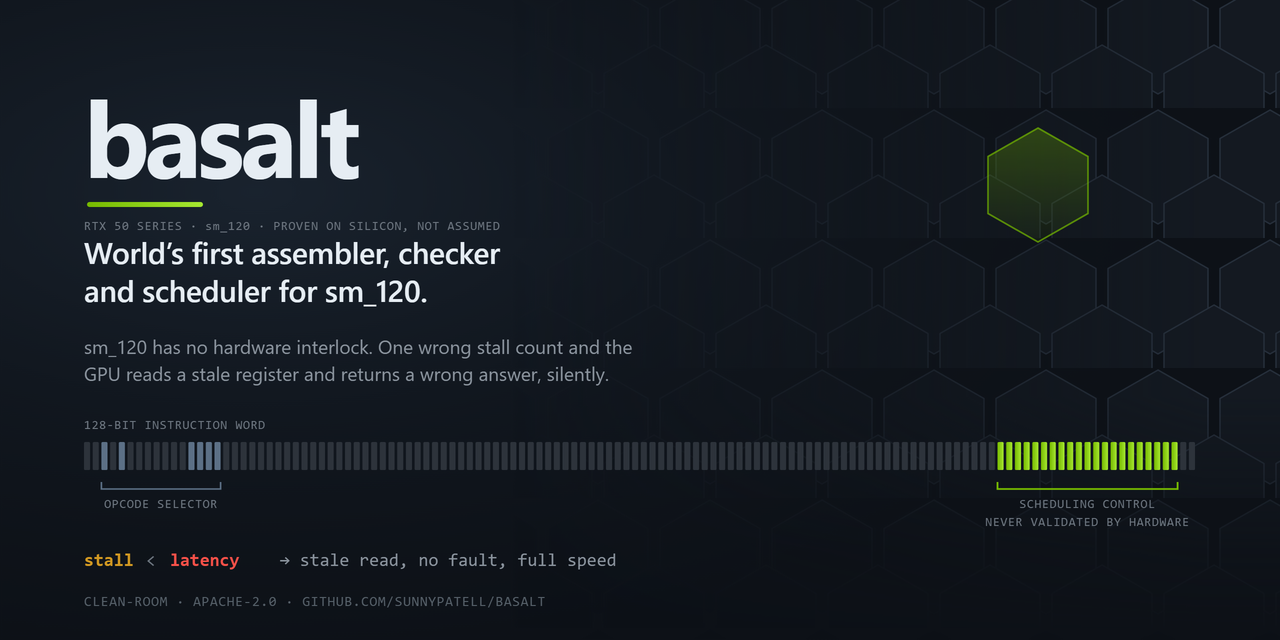
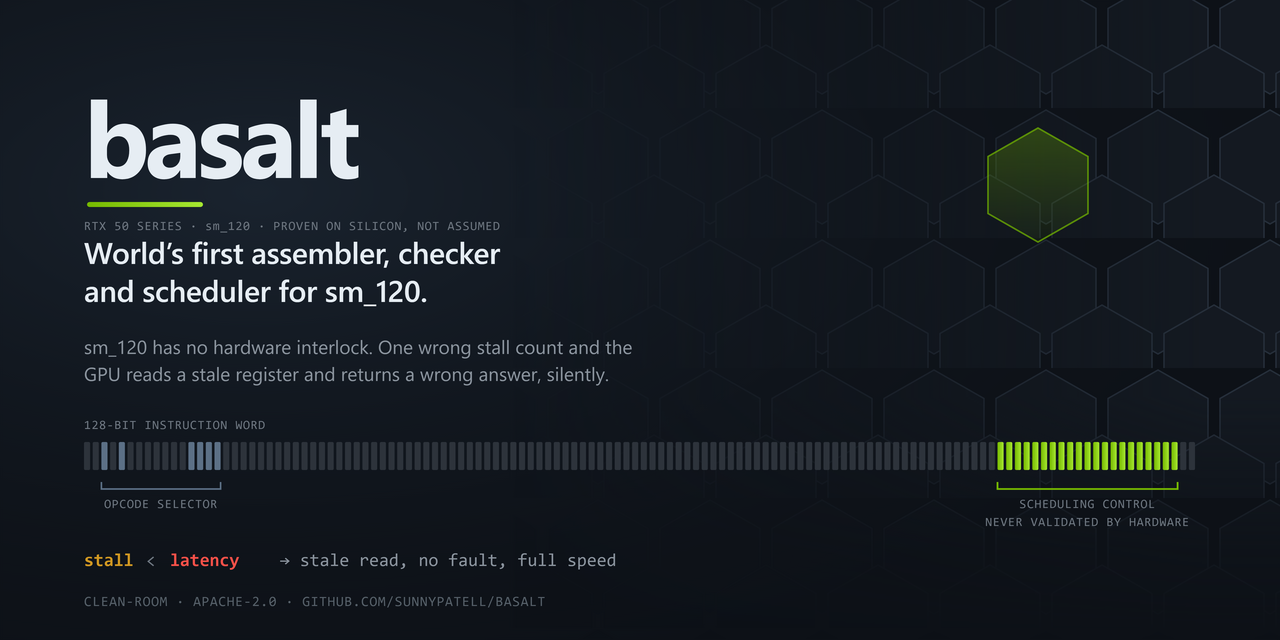
fix(assets): supersampled the preview, and corrected why the last one broke
- rendered at 4x and downsampled rather than 2x: cleaner small type, and
  304 KB against 327 KB because the smoother gradients compress better
- 46a869c blamed the quantised palette png, which was wrong. ats-screener's
  preview is a 1200x630 palette png that github accepts and re-encodes to
  1280x640 truecolour, so the input form was never the cause
- the stored blob 404s server-side (azure WebContentNotFound, cache MISS),
  so the slot needs removing and re-uploading rather than a different file

Changed region(s): [[0.0938, 0.4375, 0.1562, 0.4688], [0.3125, 0.375, 0.3438, 0.4062], [0.25, 0.375, 0.2812, 0.4062]]

diff --git a/scripts/render_assets.py b/scripts/render_assets.py
@@ -32,9 +32,9 @@ from pathlib import Path
 ROOT = Path(__file__).resolve().parent.parent
 ASSETS = ROOT / "docs" / "assets"
 
-# 2x keeps the 1280x640 preview sharp on high-DPI, and the cap is checked rather
-# than hoped for
-SCALE = 2
+# render at 4x and downsample: 16 samples a pixel beats the browser's own
+# antialiasing on the small type, and the smoother result compresses smaller too
+SCALE = 4
 CAP_BYTES = 1_000_000
 
 # well under the 1 MB cap, so the artwork can gain an element without failing
@@ -146,14 +146,14 @@ def main() -> int:
 def optimise(path: Path, width: int, height: int) -> tuple[str, str]:
     """Write the exact form GitHub's social preview pipeline hands back.
 
-    Uploading anything else means asking that pipeline to convert, and a
-    conversion that fails leaves the setting pointing at an asset that 404s: the
-    repository looks configured and unfurls as nothing. Fetching what GitHub
-    serves for a preview that does work shows what it wants, which is 1280x640
-    8-bit truecolour with no palette and no alpha, so that is what this writes.
+    GitHub re-encodes whatever it accepts, to 1280x640 8-bit truecolour with no
+    palette and no alpha. Handing it that form already means nothing is resized
+    or converted on the way in, so the upload has one less step to fail at and
+    the bytes that get served are the bytes that were reviewed here.
 
-    Chrome renders at 2x for the downsample and the file is saved at 1x, which
-    is both sharper than rendering at 1x and smaller than shipping the 2x.
+    Chrome renders at SCALE and the file is saved at 1x: sharper than letting
+    the browser antialias at 1x, and a fraction of the size of shipping the
+    supersample.
     """
     try:
         from PIL import Image
